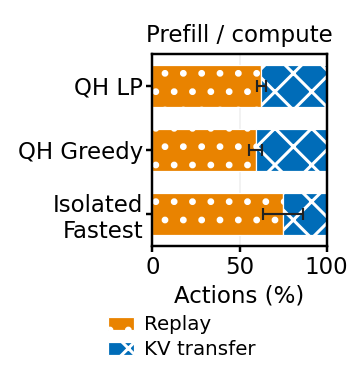
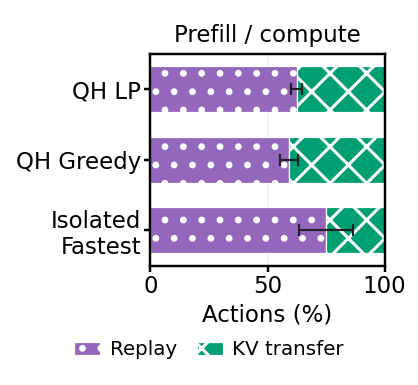
Widen paper action plots and use purple-green single-row legends

diff --git a/agent-migrate/queue-haul/plot_wan_prefill_results.py b/agent-migrate/queue-haul/plot_wan_prefill_results.py
@@ -94,14 +94,14 @@ def plot(source, out):
         save(fig, out / f"{campaign}_completion_ecdf")
     policies = POLICIES[:3]
     for campaign, title in (("wan", "WAN"), ("prefill", "Prefill / compute")):
-        fig, ax = plt.subplots(figsize=(1.65, 1.75))
+        fig, ax = plt.subplots(figsize=(1.9, 1.75))
         left = np.zeros(len(policies))
         for action in ("replay", "kv_transfer", "not_selected"):
             shares = np.array([groups[campaign, p][2][action] / groups[campaign, p][3] for p in policies])
             if not any(shares):
                 continue
             ax.barh(range(3), 100 * shares, left=100 * left, height=.65,
-                    label=plot_style.ACTION_NAMES[action], color=plot_style.ACTION_COLORS[action],
+                    label=plot_style.ACTION_NAMES[action], color=plot_style.PAPER_ACTION_COLORS[action],
                     hatch=plot_style.ACTION_HATCHES.get(action, ""), edgecolor="white", linewidth=.4)
             left += shares
         boundaries = np.array([groups[campaign, p][2]["replay"] / groups[campaign, p][3] for p in policies])
@@ -118,9 +118,9 @@ def plot(source, out):
         ax.grid(axis="x", alpha=.2, linewidth=.5)
         ax.set_axisbelow(True)
         fig.legend(*ax.get_legend_handles_labels(), loc="lower center", bbox_to_anchor=(.5, .02),
-                   ncol=1, frameon=False, fontsize=plot_style.HALF_COLUMN_LEGEND_FONT_SIZE,
-                   handlelength=1.3, handletextpad=.5, labelspacing=.3)
-        fig.subplots_adjust(left=.42, right=.90, bottom=.36, top=.86)
+                   ncol=2, frameon=False, fontsize=plot_style.HALF_COLUMN_LEGEND_FONT_SIZE,
+                   handlelength=1.3, handletextpad=.5, columnspacing=1, labelspacing=.3)
+        fig.subplots_adjust(left=.36, right=.92, bottom=.31, top=.86)
         for suffix in ("png", "pdf"):
             fig.savefig(out / f"{campaign}_action_mix.{suffix}")
         plt.close(fig)

diff --git a/agent-migrate/queue-haul/plot_style.py b/agent-migrate/queue-haul/plot_style.py
@@ -67,6 +67,7 @@ ACTION_COLORS = {
     "east_kv_transfer": "#56B4E9", "germany_kv_transfer": "#0072B2",
     "not_moved": "#999999", "not_selected": "#999999",
 }
+PAPER_ACTION_COLORS = {**ACTION_COLORS, "replay": "#9467BD", "kv_transfer": "#009E73"}
 OAT_DENSITY_COLOR = "#6A3D9A"
 OAT_TARGET_COLOR = "#222222"
 OAT_TARGET_LINESTYLE = "-"

diff --git a/agent-migrate/queue-haul/README.md b/agent-migrate/queue-haul/README.md
@@ -2675,8 +2675,9 @@ Regenerate the two single-panel ECDFs and the action mix split by bottleneck wit
 WAN pools all five cases (including the slack control); prefill pools all four
 rates (including zero load). Each case has 13 repeats per policy. The
 `wan_action_mix` and `prefill_action_mix` figures use horizontal stacked bars
-in separate 1.65 × 1.75 inch PDFs/PNGs for placement side by side in one
-paper column. Canonical method colors and hatches identify the actions.
+in separate 1.9 × 1.75 inch PDFs/PNGs for placement side by side, scaled to the
+paper column width. A single-row legend uses the shared paper action palette
+(purple replay, green KV transfer) and canonical method hatches.
 Each figure pools cases within its class: 520 WAN and 416 prefill source sessions per policy. `per_session_greedy` is displayed as Isolated
 Fastest because it picks each session's fastest isolated action. Unselected
 sessions remain visible as a separate action category if present. Boundary error
